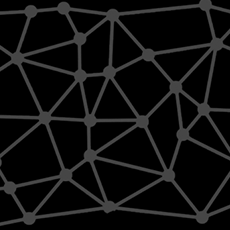
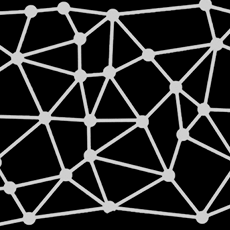
Added desaturated->colour rollover

Changed region(s): [[0.0, 0.0, 1.0, 1.0]]

diff --git a/index.html b/index.html
@@ -55,12 +55,54 @@
 					<div class="project-listing">
 						
 						<ul>
-							<li><span class="project-link"><img src="images/multitimer.png"><span class="project-title">Multi/Timer</span></a></li>
-							<li><span class="project-link"><img src="images/mainframe.png"><span class="project-title">Mainframe</span></a></li>
-							<li><span class="project-link"><img src="images/twitter-bg-replacer.png"><span class="project-title">Twitter Background Replacer</span></a></li>
-							<li><span class="project-link"><img src="images/crystalliser.png"><span class="project-title">Crystalliser Bot</span></a></li>
-							<li><span class="project-link"><img src="images/bug-gen.png"><span class="project-title">Bug Generator</span></a></li>
-							<li><span class="project-link"><img src="images/DISC.png"><span class="project-title">DISC</span></a></li>				  
+							<li>
+								<span class="project-link">
+									<img src="images/multitimer-desat.png" class="desat-img">
+									<img src="images/multitimer.png">
+									<span class="project-title">Multi/Timer</span>
+								</span>
+							</li>
+							
+							<li>
+								<span class="project-link">
+									<img src="images/mainframe-desat.png" class="desat-img">
+									<img src="images/mainframe.png">
+									<span class="project-title">Mainframe</span>
+								</a>
+							</li>
+							
+							<li>
+								<span class="project-link">
+									<img src="images/twitter-bg-replacer-desat.png" class="desat-img">
+									<img src="images/twitter-bg-replacer.png">
+									<span class="project-title">Twitter Background Replacer</span>
+								</a>
+							</li>
+							
+							<li>
+								<span class="project-link">
+									<img src="images/crystalliser-desat.png" class="desat-img">
+									<img src="images/crystalliser.png">
+									<span class="project-title">Crystalliser Bot</span>
+								</a>
+							</li>
+							
+							<li>
+								<span class="project-link">
+									<img src="images/bug-gen-desat.png" class="desat-img">
+									<img src="images/bug-gen.png">
+									<span class="project-title">Bug Generator</span>
+								</a>
+							</li>
+							
+							<li>
+								<span class="project-link">
+									<img src="images/DISC-desat.png" class="desat-img">
+									<img src="images/DISC.png">
+									<span class="project-title">DISC</span>
+								</a>
+							</li>				
+							
 						</ul>
 					</div>
 				</div>
@@ -121,6 +163,16 @@
 		</script>
 		
 		<script>
+			$('#projects li img.desat-img').show();
+			
+			$('#projects li').mouseover(function(){
+				$(this).find('img.desat-img').stop().animate({opacity:0}, 200);
+			});
+			
+			$('#projects li').mouseout(function(){
+				$(this).find('img.desat-img').stop().animate({opacity:1}, 200);
+			});			
+		
 			$(window).on('load', function() {
 				$("#site-wrapper").fadeIn(400);
 			});

diff --git a/css/index.css b/css/index.css
@@ -138,6 +138,11 @@ a:visited {
 	position: relative;
 }
 
+#projects li img.desat-img {
+	position: absolute;
+	display: none;
+}
+
 #projects li span.project-title {
 	background-color: rgba(241, 241, 241, 0.87);
 	position: absolute;
